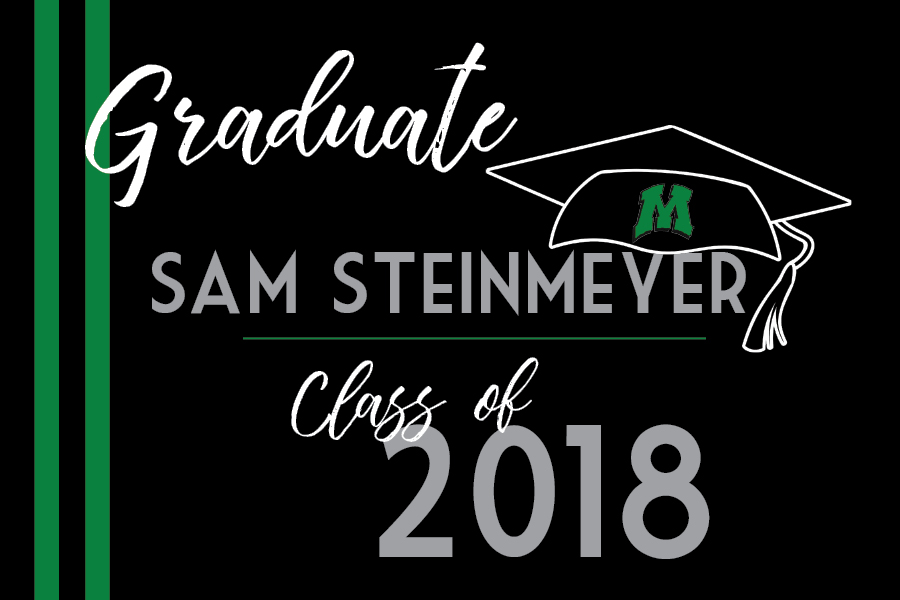
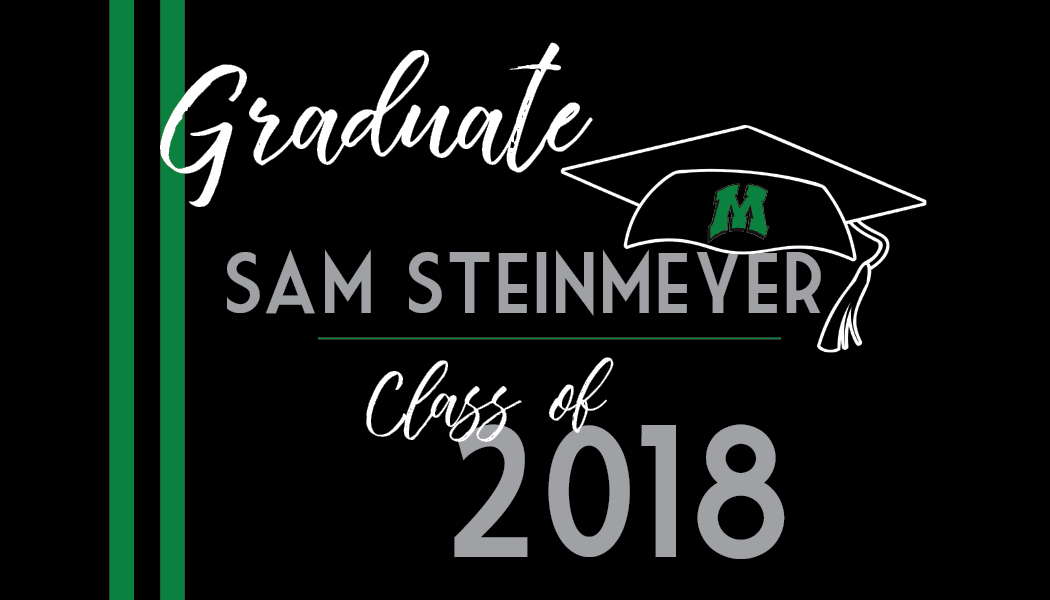
Updated sliedshow and grid

Changed region(s): [[0.0311, 0.0, 0.9644, 1.0], [0.3111, 0.6, 0.8089, 0.93]]

diff --git a/koranda.html b/koranda.html
@@ -50,7 +50,7 @@
   <!-- The slideshow -->
   <div class="carousel-inner text-center">
     <div class="carousel-item active">
-      <img src="images/koranda3.jpg" alt="MHS Football Banner">
+      <img src="images/koranda5.jpg" alt="Graduation Invitation">
     </div>
     <div class="carousel-item">
       <img src="images/koranda5.jpg" alt="Graduation Invitations">
@@ -109,19 +109,19 @@
 
   <!-- Grid column -->
   <div class="mb-3 pics animation all 2">
-    <img class="img-fluid" src="images/koranda3.jpg" alt="MHS Football Banner">
+    <img class="img-fluid" src="images/koranda6.jpg" alt="Wedding Invitation">
   </div>
   <!-- Grid column -->
 
   <!-- Grid column -->
   <div class="mb-3 pics animation all 2">
-    <img class="img-fluid" src="images/bates2.JPG" alt="Card image cap">
+    <img class="img-fluid" src="images/koranda3.jpg" alt="MHS Senior Banner">
   </div>
   <!-- Grid column -->
 
   <!-- Grid column -->
   <div class="mb-3 pics animation all 1">
-    <img class="img-fluid" src="images/bates5.jpg" alt="Card image cap">
+    <img class="img-fluid" src="images/koranda7.jpg" alt="Wedding Invitation">
   </div>
   <!-- Grid column -->
 
